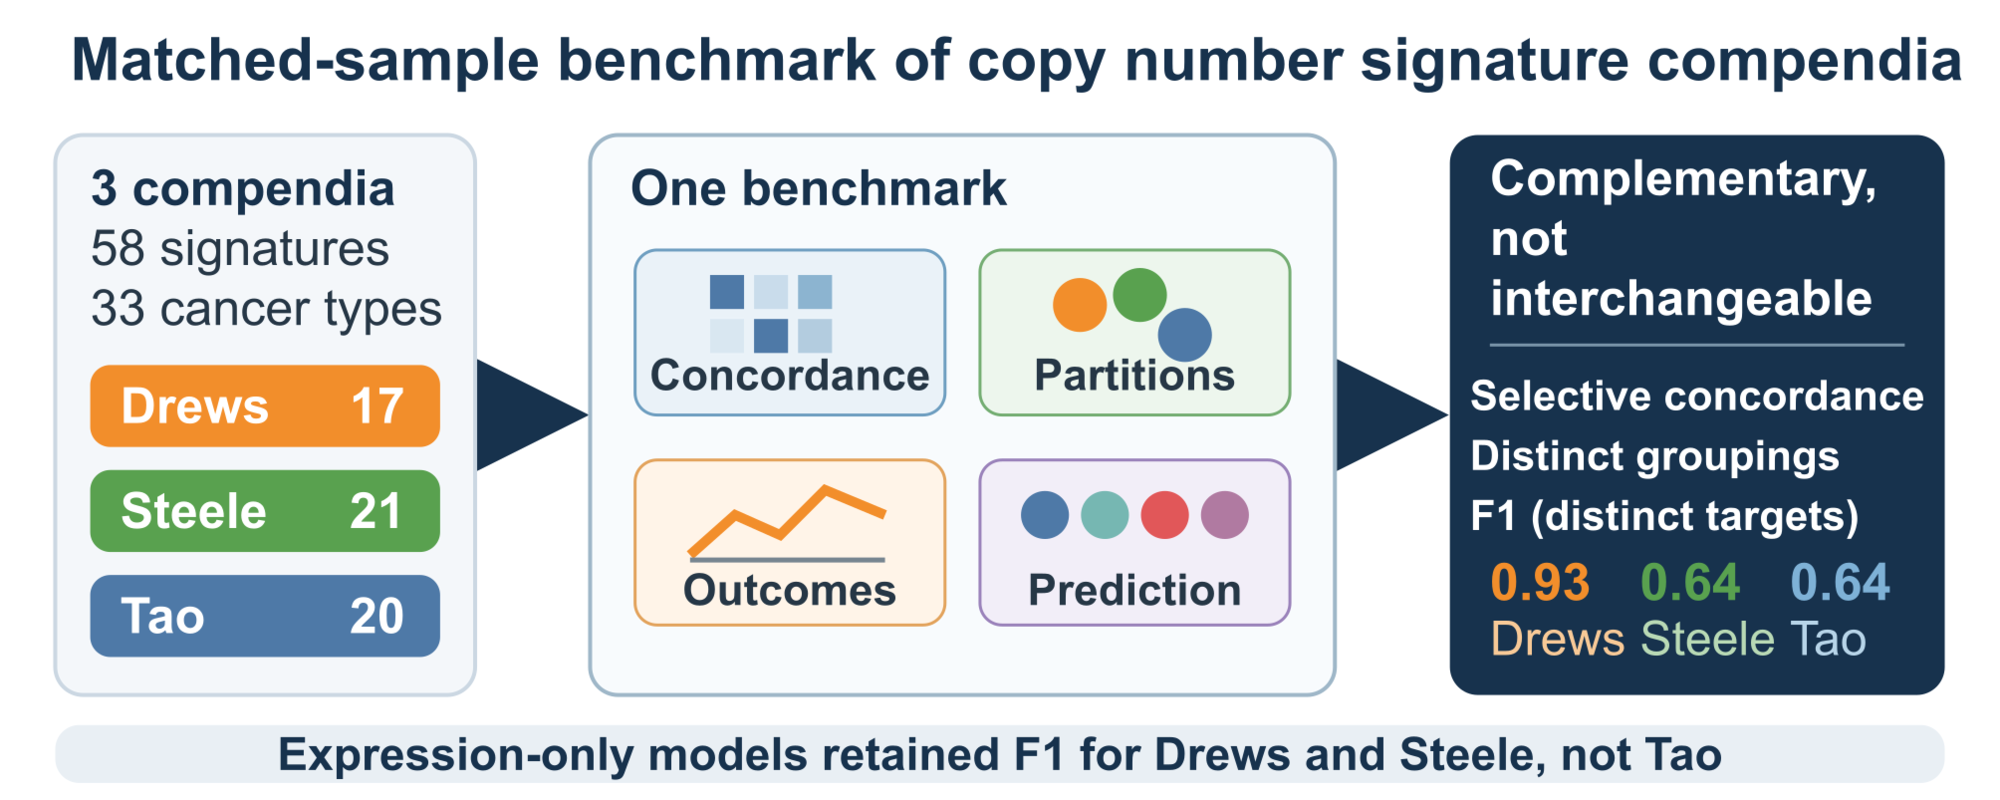
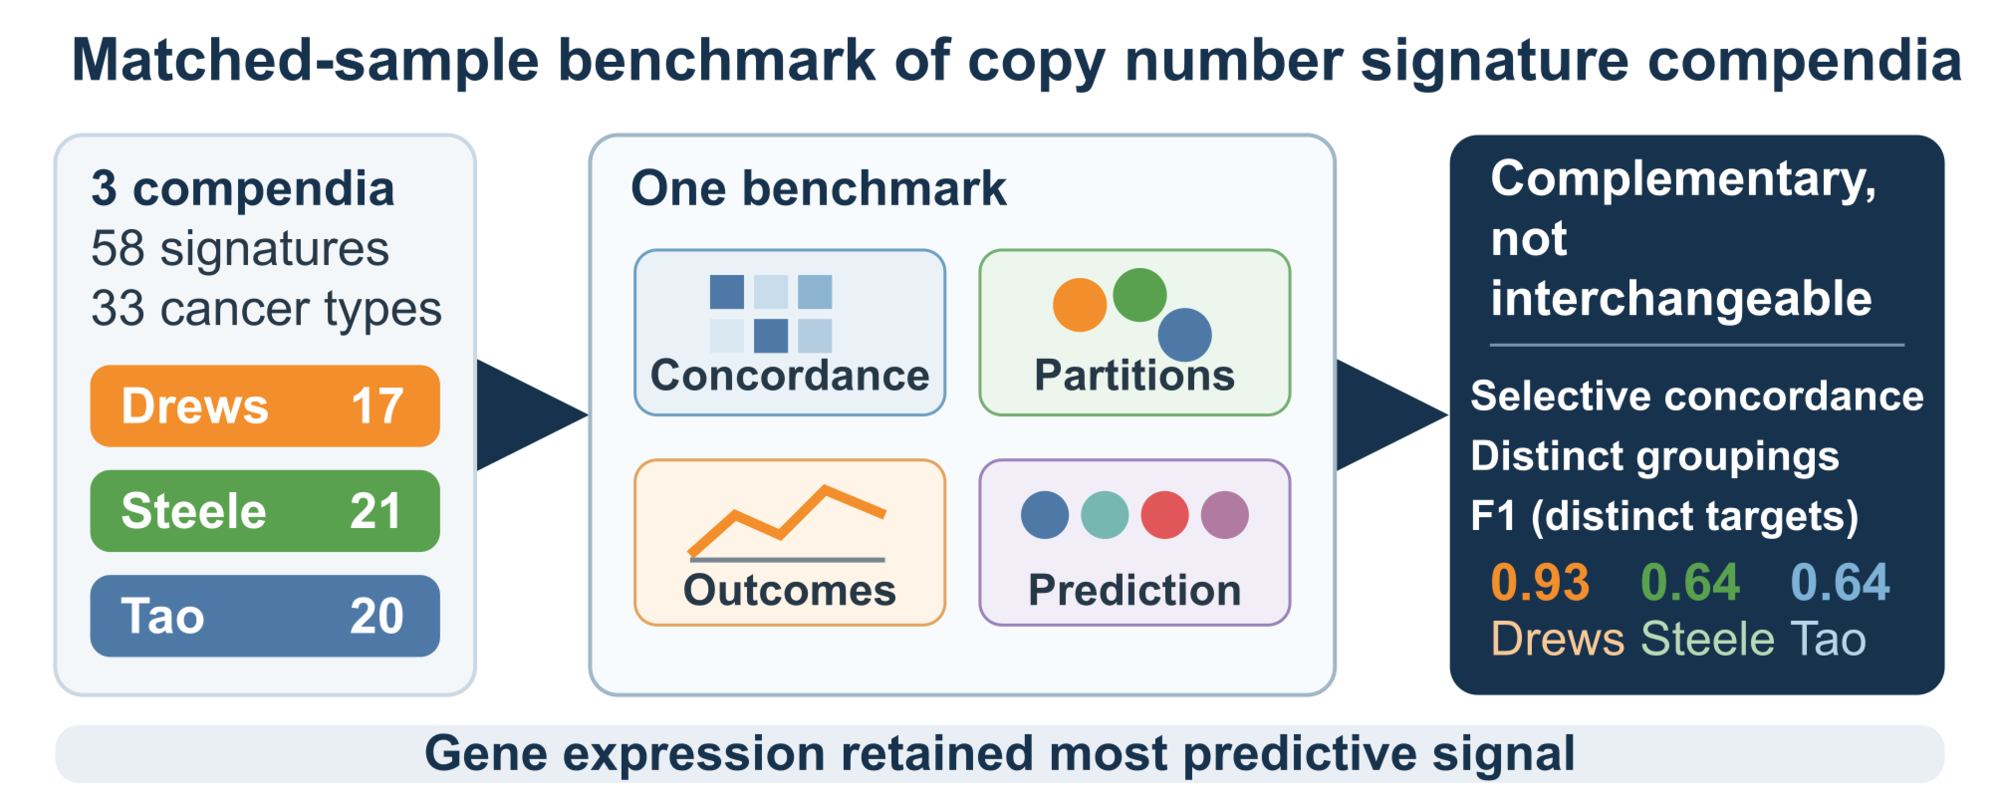
Graphical abstract: keep the submitted bottom line

Changed region(s): [[0.124, 0.9062, 0.868, 0.9688]]

diff --git a/results/revision/graphical_abstract/README.md b/results/revision/graphical_abstract/README.md
@@ -1,7 +1,7 @@
 # Graphical abstract (revision)
 
 `Graphical_Abstract_revised.svg` is the submitted
-`Graphical_Abstract_NAR_Cancer_final.svg` with four text changes; the PNG
+`Graphical_Abstract_NAR_Cancer_final.svg` with three text changes; the PNG
 (2000 x 800 px, as submitted) is rendered from it with the R package magick.
 The SVG is the vector version.
 
@@ -10,6 +10,7 @@ The SVG is the vector version.
   (`results/revision/prediction/fixed/summary.csv`).
 - "Variable test-set F1" became "F1 (distinct targets)": the three classifiers
   predict different framework-specific partitions.
-- Bottom line: "Expression-only models retained F1 for Drews and Steele, not
-  Tao" (expression-only F1 on the original split 0.93, 0.63 and 0.38;
-  `variant = expression_only` in the same summary).
+- The bottom line is unchanged ("Gene expression retained most predictive
+  signal"). Expression-only F1 on the original split: 0.93, 0.63 and 0.38
+  (`variant = expression_only` in the same summary); the Abstract states the
+  Tao exception.
